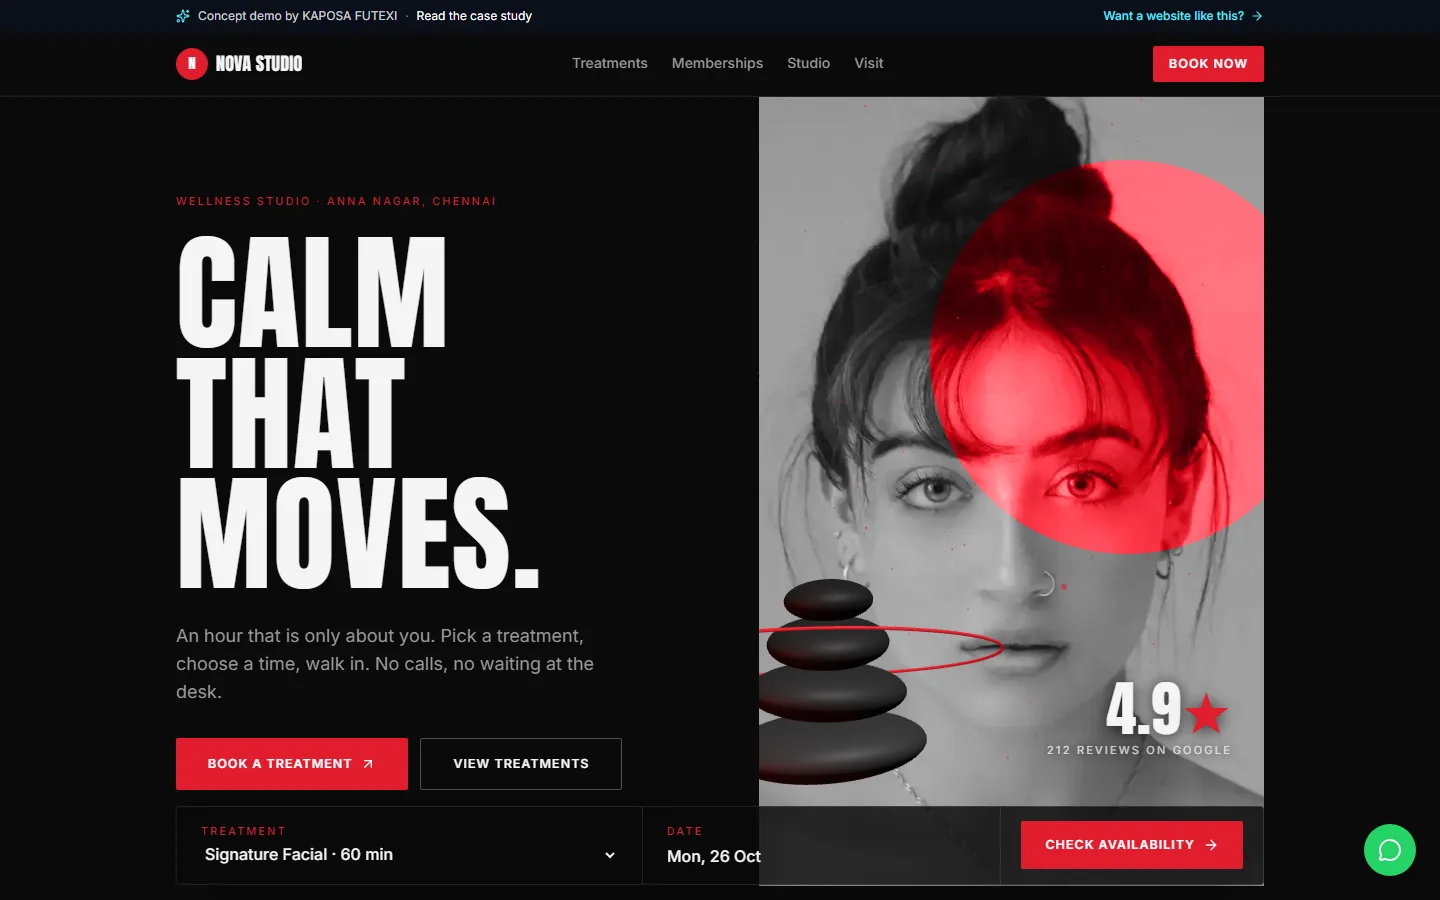
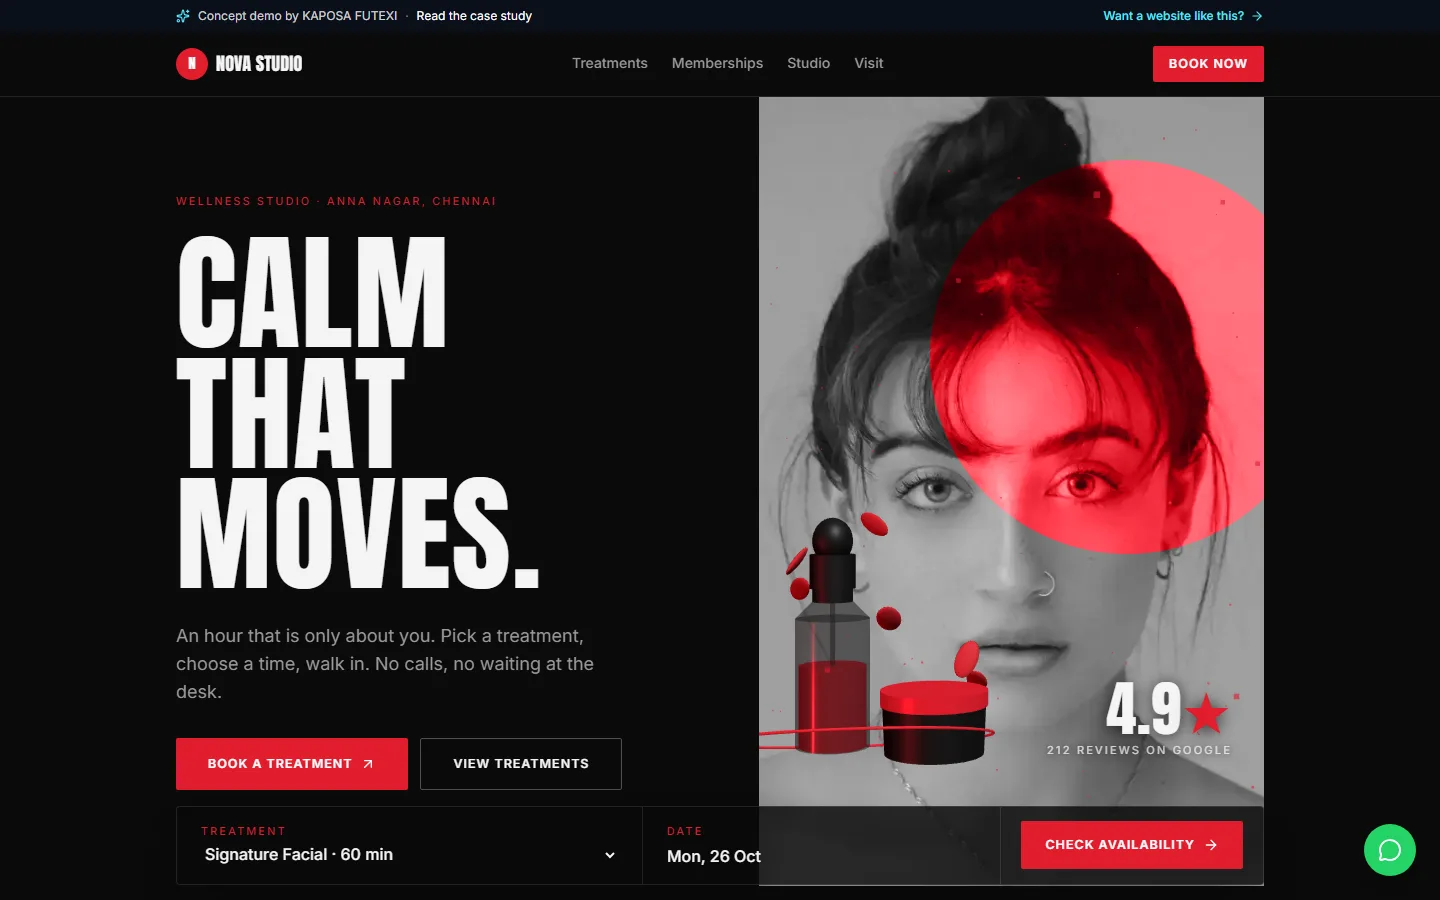
Nova hero 3D: skincare set instead of the stone stack
A dark glass serum dropper bottle with red serum inside, a black cream
jar with a red lid, nine drifting red petals and the red floor ring,
so the scene reads as the treatment room rather than generic pebbles.
Case-study home screens recaptured.

Changed region(s): [[0.5, 0.56, 0.6875, 0.8711]]

diff --git a/src/components/demos-shared/motion-v2/nova-hero-three.ts b/src/components/demos-shared/motion-v2/nova-hero-three.ts
@@ -1,7 +1,9 @@
 import {
   BufferAttribute,
   BufferGeometry,
+  CylinderGeometry,
   DirectionalLight,
+  DoubleSide,
   Group,
   HemisphereLight,
   Mesh,
@@ -16,9 +18,11 @@ import {
 } from 'three'
 
 /**
- * Nova Studio hero scene: a stack of matte charcoal stones under a thin red ring,
- * with red sparks drifting in the dark. Turns gently with the cursor
- * and sinks with the scroll. Mounted lazily on desktop by HeroScene.
+ * Nova Studio hero scene: a skincare set for the treatment room. A dark glass
+ * serum bottle with a dropper and red serum inside, a black cream jar with a red
+ * lid, a thin red ring on the floor and red petals drifting past, with red sparks
+ * in the dark. Turns gently with the cursor and sinks with the scroll.
+ * Mounted lazily on desktop by HeroScene.
  */
 export function mountScene(canvas: HTMLCanvasElement, onReady?: () => void): () => void {
   const renderer = new WebGLRenderer({
@@ -33,31 +37,27 @@ export function mountScene(canvas: HTMLCanvasElement, onReady?: () => void): () 
   camera.position.set(0, 0, 9)
   const key = new DirectionalLight(0xffffff, 2.6)
   key.position.set(3, 6, 5)
-  const gold = new DirectionalLight(0xe11d2e, 1.6)
-  gold.position.set(-4, -1, 3)
-  scene.add(key, gold, new HemisphereLight(0xffffff, 0x0a0a0a, 0.8))
+  const fill = new DirectionalLight(0xe11d2e, 1.4)
+  fill.position.set(-4, -1, 3)
+  scene.add(key, fill, new HemisphereLight(0xffffff, 0x0a0a0a, 0.8))
 
-  // Stones: flattened spheres, each a little off-axis like a hand-balanced stack.
-  const stack = new Group()
-  const stones = [
-    { r: [1.3, 0.42, 1.15], c: 0x3a3a3a, y: 0 },
-    { r: [1.08, 0.38, 0.98], c: 0x2f2f2f, y: 0.72 },
-    { r: [0.86, 0.34, 0.8], c: 0x262626, y: 1.36 },
-    { r: [0.6, 0.28, 0.58], c: 0x1e1e1e, y: 1.92 },
-  ]
-  const geo = new SphereGeometry(1, 48, 32)
-  const mats: MeshStandardMaterial[] = []
-  stones.forEach((s, i) => {
-    const m = new MeshStandardMaterial({ color: s.c, roughness: 0.55, metalness: 0.15 })
-    mats.push(m)
-    const mesh = new Mesh(geo, m)
-    mesh.scale.set(s.r[0], s.r[1], s.r[2])
-    mesh.position.y = s.y - 1.1
-    mesh.rotation.y = i * 0.7
-    mesh.rotation.z = (i % 2 ? -1 : 1) * 0.05
-    stack.add(mesh)
+  const glassMat = new MeshStandardMaterial({
+    color: 0x2a2a2a,
+    roughness: 0.12,
+    metalness: 0.35,
+    transparent: true,
+    opacity: 0.55,
+    depthWrite: false,
   })
-  const ringGeo = new TorusGeometry(2.3, 0.02, 12, 180)
+  const blackMat = new MeshStandardMaterial({ color: 0x151515, roughness: 0.45, metalness: 0.2 })
+  const redMat = new MeshStandardMaterial({
+    color: 0xe11d2e,
+    emissive: 0xe11d2e,
+    emissiveIntensity: 0.22,
+    roughness: 0.35,
+    metalness: 0.1,
+  })
+  const petalMat = new MeshStandardMaterial({ color: 0xe11d2e, roughness: 0.65, side: DoubleSide })
   const ringMat = new MeshStandardMaterial({
     color: 0xe11d2e,
     emissive: 0xe11d2e,
@@ -65,13 +65,85 @@ export function mountScene(canvas: HTMLCanvasElement, onReady?: () => void): () 
     metalness: 0.4,
     roughness: 0.3,
   })
+  const mats = [glassMat, blackMat, redMat, petalMat, ringMat]
+
+  const bodyGeo = new CylinderGeometry(0.55, 0.55, 1.9, 48)
+  const liquidGeo = new CylinderGeometry(0.5, 0.5, 1.2, 48)
+  const shoulderGeo = new CylinderGeometry(0.3, 0.55, 0.25, 48)
+  const neckGeo = new CylinderGeometry(0.3, 0.3, 0.2, 32)
+  const capGeo = new CylinderGeometry(0.34, 0.34, 0.5, 32)
+  const bulbGeo = new SphereGeometry(0.3, 32, 24)
+  const pipetteGeo = new CylinderGeometry(0.04, 0.03, 2.1, 12)
+  const jarGeo = new CylinderGeometry(0.75, 0.72, 0.7, 48)
+  const lidGeo = new CylinderGeometry(0.78, 0.78, 0.22, 48)
+  const ringGeo = new TorusGeometry(2.1, 0.02, 12, 180)
+  const petalGeo = new SphereGeometry(1, 20, 12)
+  const geos = [
+    bodyGeo,
+    liquidGeo,
+    shoulderGeo,
+    neckGeo,
+    capGeo,
+    bulbGeo,
+    pipetteGeo,
+    jarGeo,
+    lidGeo,
+    ringGeo,
+    petalGeo,
+  ]
+
+  const set = new Group()
+
+  // Serum bottle: the liquid and the pipette sit inside the glass body (base at y = 0).
+  const bottle = new Group()
+  const part = (geo: CylinderGeometry | SphereGeometry, mat: MeshStandardMaterial, y: number) => {
+    const m = new Mesh(geo, mat)
+    m.position.y = y
+    bottle.add(m)
+    return m
+  }
+  part(liquidGeo, redMat, 0.6)
+  part(pipetteGeo, glassMat, 1.3)
+  part(bodyGeo, glassMat, 0.95)
+  part(shoulderGeo, glassMat, 2.025)
+  part(neckGeo, blackMat, 2.25)
+  part(capGeo, blackMat, 2.6)
+  part(bulbGeo, blackMat, 3.05).scale.y = 1.15
+  bottle.position.set(-0.3, -1.6, 0)
+  set.add(bottle)
+
+  // Cream jar, front right, with a red lid.
+  const jar = new Group()
+  const jarBody = new Mesh(jarGeo, blackMat)
+  jarBody.position.y = 0.35
+  const lid = new Mesh(lidGeo, redMat)
+  lid.position.y = 0.81
+  jar.add(jarBody, lid)
+  jar.position.set(1.15, -1.6, 0.7)
+  set.add(jar)
+
   const ring = new Mesh(ringGeo, ringMat)
   ring.rotation.x = 1.3
-  ring.position.y = 0.1
-  stack.add(ring)
-  stack.position.set(-1.5, -1.5, -0.4)
-  stack.scale.setScalar(0.62)
-  scene.add(stack)
+  ring.position.y = -1.5
+  set.add(ring)
+
+  // Petals: flat red lenses drifting around the set.
+  const petals: { mesh: Mesh; base: number; phase: number; spin: number }[] = []
+  for (let i = 0; i < 9; i++) {
+    const mesh = new Mesh(petalGeo, petalMat)
+    const a = (i / 9) * Math.PI * 2
+    const r = 1.6 + (i % 3) * 0.5
+    const base = -1.1 + (i % 4) * 0.85
+    mesh.position.set(Math.cos(a) * r, base, Math.sin(a) * r * 0.6)
+    mesh.scale.set(0.28, 0.05, 0.16)
+    mesh.rotation.set(a, i * 0.9, a * 0.5)
+    petals.push({ mesh, base, phase: i * 0.7, spin: 0.2 + (i % 3) * 0.1 })
+    set.add(mesh)
+  }
+
+  set.position.set(-1.3, -1.3, -0.4)
+  set.scale.setScalar(0.55)
+  scene.add(set)
 
   const COUNT = 500
   const positions = new Float32Array(COUNT * 3)
@@ -112,10 +184,15 @@ export function mountScene(canvas: HTMLCanvasElement, onReady?: () => void): () 
     if (hidden) return
     const t = (performance.now() - t0) / 1000
     const scrollY = window.scrollY
-    stack.rotation.y += (target.x * 0.5 + t * 0.08 - stack.rotation.y) * 0.03
-    stack.rotation.x += (target.y * 0.18 - stack.rotation.x) * 0.03
-    stack.position.y = -1.5 + Math.sin(t * 0.6) * 0.1 - scrollY * 0.002
+    set.rotation.y += (target.x * 0.5 + t * 0.08 - set.rotation.y) * 0.03
+    set.rotation.x += (target.y * 0.18 - set.rotation.x) * 0.03
+    set.position.y = -1.3 + Math.sin(t * 0.6) * 0.1 - scrollY * 0.002
     ring.rotation.z = t * 0.12
+    for (const p of petals) {
+      p.mesh.position.y = p.base + Math.sin(t * 0.8 + p.phase) * 0.25
+      p.mesh.rotation.y += p.spin * 0.01
+      p.mesh.rotation.x += 0.004
+    }
     dust.rotation.y = t * 0.02
     dust.position.y = Math.sin(t * 0.25) * 0.3 - scrollY * 0.001
     camera.position.x += (target.x * 0.35 - camera.position.x) * 0.05
@@ -132,10 +209,8 @@ export function mountScene(canvas: HTMLCanvasElement, onReady?: () => void): () 
     ro.disconnect()
     window.removeEventListener('pointermove', onMove)
     document.removeEventListener('visibilitychange', onVisibility)
-    geo.dispose()
+    geos.forEach((g) => g.dispose())
     mats.forEach((m) => m.dispose())
-    ringGeo.dispose()
-    ringMat.dispose()
     dustGeo.dispose()
     dustMat.dispose()
     renderer.dispose()

diff --git a/docs/content-lock.md b/docs/content-lock.md
@@ -353,7 +353,7 @@ Choose Service → Choose Date → Choose Time → Enter Details → Confirm Boo
 | Restaurant | The menu lives in blurry photos. Reservations happen over calls. | Hero, Menu with categories, Food gallery, About, Offers, Reservation, Location, Contact | Digital Menu · Reservation · WhatsApp · Google Maps · Responsive UI |
 | Interior Designer | Great work, but no place to show it professionally. | Editorial hero with photography, Projects gallery with filters, Project pages with gallery and palette, Services with indicative pricing, Five-stage process and FAQ, About studio, Testimonials, Contact | Project Portfolio · Filters · Project Pages · Pricing · Enquiry Form · WhatsApp · Responsive |
 
-Interior demo update (2026-10-16): palette changed from sage green to warm neutral (ivory #f5f0e8, oat #c9a97d, espresso #3b2a1e) with a Playfair Display heading face; abstract colour tiles replaced by real photos (Unsplash licence, credits in `public/demos/interior/photos/CREDITS.md`); six projects; two new pages, `/demo/interior/projects` (filters: homes, offices, cafes) and `/demo/interior/services` (three packages with indicative prices, five stages, FAQ). Demo redesign (2026-10-17): every demo now reads as a different brand, with its own two Google Fonts (self-hosted, swap, used weights only, loaded per demo through `src/app/(demos)/fonts.ts`), its own radii and spacing, real photos (Unsplash licence, `public/demos/<slug>/photos/CREDITS.md`) and two new pages each. Shared motion layer (`src/components/demos-shared/motion.tsx` + the `.dm-*` rules in `demo.css`, no animation library): word-by-word hero headline, hero photo settle and parallax, scroll progress bar, two-way scroll reveals, counters, one pinned horizontal "story" per site (desktop; swipe row on phones), card scale-in, magnetic buttons, 3D tilt with glare, link underlines (the custom cursor was removed on 2026-10-22: it hid the native pointer and customers lost the cursor). Everything animates transform and opacity only, is off under reduced motion, and magnetic/tilt are desktop-only. Phones (below 1024 px) get the light version: no frosted-glass blur on the booking bar or header, no hero settle animation or scroll parallax, and the headline slides in without a fade, because those effects delayed first paint by over a second on software renderers (and in Lighthouse). The top demo ribbon is a fixed two-row layout on phones so font loading cannot shift the page. Demo font budget in Lighthouse CI raised to 130 KB. Motion v2 (2026-10-22, all four brand demos, one recipe per brand): on desktops with a mouse and no reduced-motion preference, `components/demos-shared/motion-v2` loads GSAP, Lenis smooth scroll, a progress bar and the brand's recipe (`recipes/<brand>.ts`) after the page has loaded, plus a lazy Three.js hero scene per brand. Gym (Pulse): character slam, auto-running class marquee, manifesto words lighting up, the class strip pinned and sliding sideways with per-card parallax (ends with the last card fully inside the content inset), coach photo wipe; a rolling chrome-and-rubber dumbbell, a leaning bumper plate and a swinging kettlebell built from primitives, with green particles over the photo (a chrome knot until 2026-10-23). Nova: headline words rise out of their own masks while the photo breathes and the booking bar floats up, treatment cards turn in like pages, the quote reveals line by line under a gold rule, the visit steps stack on top of each other while pinned, the studio photo drifts against its copy; a stone stack under a gold ring over the dimmed deck photo. Salon (Velvet): headline words slide in from alternating sides with a skew while the portrait uncovers from the top, a two-row outlined/gold type band moves with the scroll and skews with its speed (one auto-running row on phones), price rows and gallery tiles cut in, the bridal story pins with one image crossfading as the step copy brightens, team cards tip up; a gold silk ribbon behind the headline. Tuition (Vidya): characters bounce in, badges pop, an amber marker draws under "Big results.", the hero photo and stat card spring in, stat and course cards pop like stickers, the promise is typed onto an indigo board, batch cards land like sticky notes in a three-per-row grid (no pin), faculty cards swing in like polaroids, toppers pop; study props built from primitives floating at the hero edges: graduation cap, book stack, pencil, atom, light bulb, ruler (pastel blocks until 2026-10-23; the user asked for an academic background). Phones, tablets and reduced motion keep the CSS layer and never request GSAP, Lenis or Three; `html.dm-v2` / `html.dm-v2-three` mark the upgraded state (motion-v2.css, per-theme rules). Also fixed: hero background layers with `-z-10` need `isolate` on their section, otherwise the theme background hides them (gym, interior, restaurant). Salon rework (2026-10-23, from the user's Pinterest references: a barbershop template layout and three dark gentlemen's-lounge sites): Velvet Salon is now a dark barber lounge for him and for her. Palette warmed to wood and old gold (bg #16110d, surface #1f1813, gold #c9a063, tan #e2b98a); DM Serif Display replaces Bodoni Moda (Montserrat stays). Home: full-bleed lounge photo with "More than just a haircut." and two portrait cards (For her / For him), stats, type band, six service cards with gold icon squares and For her/him/everyone tags, eight prices at a glance, the lounge (shop photo + three features), mixed gallery, the wedding story for bride and groom, a products shelf (four items reserved on WhatsApp), four-person team (two stylists, a master barber, a senior stylist). Services gained Men's Cut & Style (₹499) and Beard Trim & Hot Towel Shave (₹349); the price list groups are Hair, Barber, Skin, Nails and makeup; the bridal page adds the Groom's morning (₹4,500). Sixteen new Unsplash photos (men's grooming and moody women's shots) credited in public/demos/salon/photos/CREDITS.md. Restaurant rework (2026-10-23, from the user's Dribbble references: a Michelin-restaurant redesign and dark fine-dining sites): Saffron Kitchen is now a dark fine-dining layout. Palette deepened to near-black with saffron gold (bg #0e0c0a, gold #d9a441); Headings are Plus Jakarta Sans 700 with tight tracking (the user's second reference, a bold modern restaurant brand; Fraunces was tried for an hour and replaced). Photos re-downloaded at 1400 to 2200 px wide because the 900 px originals went soft at hero and ring sizes; hero quality 70, ring cards quality 85. Home: full-screen hero with the fire photo almost black and a centred light serif headline ("A table by the fire."), a one-line italic statement, six signature dishes on a 3D ring that turns one dish per scroll step while pinned (two-column list on phones), the menu as a hairline list with underline tabs, the room with three facts, two private-dining occasions as alternating editorial rows, hairline offers, the gallery. Motion v2 recipe `saffron`: characters blur in, the statement sharpens character by character on scroll, ring pin with snap, rows slide from alternating sides; 3D: a plated dish under a copper cloche that lifts on load, with embers rising through the frame. Nova rework (2026-10-26, from the user's Pinterest reference, a red-and-black portfolio with condensed uppercase type): the Booking demo is now "Red Room". Palette: near-black (#0a0a0a, panels #121212), one red (#e11d2e), off-white text; Anton uppercase headlines with Inter body (Cormorant and Jost removed); sharp corners; every photo black-and-white with red discs. Home: split hero ("Calm that moves.", portrait under a red disc, 4.9★ stamp, charcoal 3D stones with a red ring at the lower left), red booking bar, four treatment cards with red discs and prices, the statement "Slow hands. Fast booking." between two hairline lists, the stacked visit cards in black with red numbers, the studio with a red disc, three big-quote testimonials, red CTA band. Treatments, membership and booking pages inherit the theme. Interior rework (2026-10-23, from the user's Dribbble reference: minimalist interior studio sites, white kitchens, black pendants): Atelier Nila is now a monochrome architectural gallery. Palette: paper white (#f6f5f2), ink black (#141414), oak accent (#b4825a); Playfair stays. Home: copy left over a 3D wire-frame room model (walls, sofa, table, lamp, plant, pendants) at the lower left, the white-kitchen photo right opening through five blinds; four numbers; an editorial 8/4 project grid whose frames open from the bottom; a pinned "Plan. Material. Room." reveal where a gridded blueprint erases in a circle to a grey study and then to the finished room while the step list follows; four numbered service rows with a photo that floats beside the row under the pointer; the process as one drawn line with three dots; the studio and the enquiry form. Motion v2 recipe `nila`.
+Interior demo update (2026-10-16): palette changed from sage green to warm neutral (ivory #f5f0e8, oat #c9a97d, espresso #3b2a1e) with a Playfair Display heading face; abstract colour tiles replaced by real photos (Unsplash licence, credits in `public/demos/interior/photos/CREDITS.md`); six projects; two new pages, `/demo/interior/projects` (filters: homes, offices, cafes) and `/demo/interior/services` (three packages with indicative prices, five stages, FAQ). Demo redesign (2026-10-17): every demo now reads as a different brand, with its own two Google Fonts (self-hosted, swap, used weights only, loaded per demo through `src/app/(demos)/fonts.ts`), its own radii and spacing, real photos (Unsplash licence, `public/demos/<slug>/photos/CREDITS.md`) and two new pages each. Shared motion layer (`src/components/demos-shared/motion.tsx` + the `.dm-*` rules in `demo.css`, no animation library): word-by-word hero headline, hero photo settle and parallax, scroll progress bar, two-way scroll reveals, counters, one pinned horizontal "story" per site (desktop; swipe row on phones), card scale-in, magnetic buttons, 3D tilt with glare, link underlines (the custom cursor was removed on 2026-10-22: it hid the native pointer and customers lost the cursor). Everything animates transform and opacity only, is off under reduced motion, and magnetic/tilt are desktop-only. Phones (below 1024 px) get the light version: no frosted-glass blur on the booking bar or header, no hero settle animation or scroll parallax, and the headline slides in without a fade, because those effects delayed first paint by over a second on software renderers (and in Lighthouse). The top demo ribbon is a fixed two-row layout on phones so font loading cannot shift the page. Demo font budget in Lighthouse CI raised to 130 KB. Motion v2 (2026-10-22, all four brand demos, one recipe per brand): on desktops with a mouse and no reduced-motion preference, `components/demos-shared/motion-v2` loads GSAP, Lenis smooth scroll, a progress bar and the brand's recipe (`recipes/<brand>.ts`) after the page has loaded, plus a lazy Three.js hero scene per brand. Gym (Pulse): character slam, auto-running class marquee, manifesto words lighting up, the class strip pinned and sliding sideways with per-card parallax (ends with the last card fully inside the content inset), coach photo wipe; a rolling chrome-and-rubber dumbbell, a leaning bumper plate and a swinging kettlebell built from primitives, with green particles over the photo (a chrome knot until 2026-10-23). Nova: headline words rise out of their own masks while the photo breathes and the booking bar floats up, treatment cards turn in like pages, the quote reveals line by line under a gold rule, the visit steps stack on top of each other while pinned, the studio photo drifts against its copy; a stone stack under a gold ring over the dimmed deck photo. Salon (Velvet): headline words slide in from alternating sides with a skew while the portrait uncovers from the top, a two-row outlined/gold type band moves with the scroll and skews with its speed (one auto-running row on phones), price rows and gallery tiles cut in, the bridal story pins with one image crossfading as the step copy brightens, team cards tip up; a gold silk ribbon behind the headline. Tuition (Vidya): characters bounce in, badges pop, an amber marker draws under "Big results.", the hero photo and stat card spring in, stat and course cards pop like stickers, the promise is typed onto an indigo board, batch cards land like sticky notes in a three-per-row grid (no pin), faculty cards swing in like polaroids, toppers pop; study props built from primitives floating at the hero edges: graduation cap, book stack, pencil, atom, light bulb, ruler (pastel blocks until 2026-10-23; the user asked for an academic background). Phones, tablets and reduced motion keep the CSS layer and never request GSAP, Lenis or Three; `html.dm-v2` / `html.dm-v2-three` mark the upgraded state (motion-v2.css, per-theme rules). Also fixed: hero background layers with `-z-10` need `isolate` on their section, otherwise the theme background hides them (gym, interior, restaurant). Salon rework (2026-10-23, from the user's Pinterest references: a barbershop template layout and three dark gentlemen's-lounge sites): Velvet Salon is now a dark barber lounge for him and for her. Palette warmed to wood and old gold (bg #16110d, surface #1f1813, gold #c9a063, tan #e2b98a); DM Serif Display replaces Bodoni Moda (Montserrat stays). Home: full-bleed lounge photo with "More than just a haircut." and two portrait cards (For her / For him), stats, type band, six service cards with gold icon squares and For her/him/everyone tags, eight prices at a glance, the lounge (shop photo + three features), mixed gallery, the wedding story for bride and groom, a products shelf (four items reserved on WhatsApp), four-person team (two stylists, a master barber, a senior stylist). Services gained Men's Cut & Style (₹499) and Beard Trim & Hot Towel Shave (₹349); the price list groups are Hair, Barber, Skin, Nails and makeup; the bridal page adds the Groom's morning (₹4,500). Sixteen new Unsplash photos (men's grooming and moody women's shots) credited in public/demos/salon/photos/CREDITS.md. Restaurant rework (2026-10-23, from the user's Dribbble references: a Michelin-restaurant redesign and dark fine-dining sites): Saffron Kitchen is now a dark fine-dining layout. Palette deepened to near-black with saffron gold (bg #0e0c0a, gold #d9a441); Headings are Plus Jakarta Sans 700 with tight tracking (the user's second reference, a bold modern restaurant brand; Fraunces was tried for an hour and replaced). Photos re-downloaded at 1400 to 2200 px wide because the 900 px originals went soft at hero and ring sizes; hero quality 70, ring cards quality 85. Home: full-screen hero with the fire photo almost black and a centred light serif headline ("A table by the fire."), a one-line italic statement, six signature dishes on a 3D ring that turns one dish per scroll step while pinned (two-column list on phones), the menu as a hairline list with underline tabs, the room with three facts, two private-dining occasions as alternating editorial rows, hairline offers, the gallery. Motion v2 recipe `saffron`: characters blur in, the statement sharpens character by character on scroll, ring pin with snap, rows slide from alternating sides; 3D: a plated dish under a copper cloche that lifts on load, with embers rising through the frame. Nova rework (2026-10-26, from the user's Pinterest reference, a red-and-black portfolio with condensed uppercase type): the Booking demo is now "Red Room". Palette: near-black (#0a0a0a, panels #121212), one red (#e11d2e), off-white text; Anton uppercase headlines with Inter body (Cormorant and Jost removed); sharp corners; every photo black-and-white with red discs. Home: split hero ("Calm that moves.", portrait under a red disc, 4.9★ stamp, a 3D skincare set at the lower left: dark glass serum dropper bottle with red serum, black cream jar with a red lid, drifting red petals and a red ring), red booking bar, four treatment cards with red discs and prices, the statement "Slow hands. Fast booking." between two hairline lists, the stacked visit cards in black with red numbers, the studio with a red disc, three big-quote testimonials, red CTA band. Treatments, membership and booking pages inherit the theme. Interior rework (2026-10-23, from the user's Dribbble reference: minimalist interior studio sites, white kitchens, black pendants): Atelier Nila is now a monochrome architectural gallery. Palette: paper white (#f6f5f2), ink black (#141414), oak accent (#b4825a); Playfair stays. Home: copy left over a 3D wire-frame room model (walls, sofa, table, lamp, plant, pendants) at the lower left, the white-kitchen photo right opening through five blinds; four numbers; an editorial 8/4 project grid whose frames open from the bottom; a pinned "Plan. Material. Room." reveal where a gridded blueprint erases in a circle to a grey study and then to the finished room while the step list follows; four numbered service rows with a photo that floats beside the row under the pointer; the process as one drawn line with three dots; the studio and the enquiry form. Motion v2 recipe `nila`.
 
 | Demo | Look | Fonts | New pages |
 |---|---|---|---|
